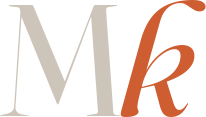
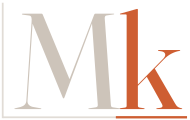
Mk 2026-11-20 (acff9fed3135)
- O logo novo em todo o Mk
- Logo do Mk em vetor: Mk em serifa reta sobre um plano cartesiano

diff --git a/shell/mare/Bar.qml b/shell/mare/Bar.qml
@@ -188,38 +188,21 @@ PanelWindow {
                     }
                 }
 
-                // Marca "Mk": o M em osso e o k em cobre, como o "x" de
-                // codexmark no perfil. Abre o launcher (ou um toque no Super).
+                // Marca "Mk": o M em osso, o k em cobre e os eixos do logo (a
+                // forma compacta de system/mk/art/make-logo.py, em vetor).
+                // Abre o launcher (ou um toque no Super).
                 Item {
                     id: brand
                     anchors.verticalCenter: parent.verticalCenter
                     implicitWidth: mark.implicitWidth + 14
                     implicitHeight: 24
 
-                    Row {
+                    Image {
                         id: mark
                         anchors.centerIn: parent
-                        anchors.verticalCenterOffset: -1
-                        spacing: -1
-
-                        Text {
-                            anchors.baseline: kay.baseline
-                            text: "M"
-                            color: Theme.text
-                            font.family: Theme.serif
-                            font.pixelSize: 19
-                            font.weight: Font.Light
-                        }
-
-                        Text {
-                            id: kay
-                            text: "k"
-                            color: Theme.copper
-                            font.family: Theme.serif
-                            font.pixelSize: 19
-                            font.weight: Font.Light
-                            font.italic: true
-                        }
+                        source: Qt.resolvedUrl("assets/mark.svg")
+                        sourceSize.height: 20
+                        smooth: true
                     }
 
                     HoverHandler { cursorShape: Qt.PointingHandCursor }

diff --git a/shell/mare/SettingsWindow.qml b/shell/mare/SettingsWindow.qml
@@ -313,16 +313,14 @@ PanelWindow {
                 Row {
                     spacing: 10
 
-                    Text {
+                    Image {
                         id: brand
-                        text: "M<font color=\"" + Theme.copper + "\"><i>k</i></font>"
-                        textFormat: Text.StyledText
-                        color: Theme.text
-                        font.family: Theme.serif
-                        font.pixelSize: 24
+                        source: Qt.resolvedUrl("assets/mark.svg")
+                        sourceSize.height: 26
                     }
                     Text {
-                        anchors.baseline: brand.baseline
+                        anchors.bottom: brand.bottom
+                        anchors.bottomMargin: 2
                         text: "ajustes"
                         color: Theme.textDim
                         font.family: Theme.serif

diff --git a/shell/mare/LockSurface.qml b/shell/mare/LockSurface.qml
@@ -392,8 +392,9 @@ Item {
 
             Image {
                 anchors.right: parent.right
-                source: Qt.resolvedUrl("assets/mark.png")
-                height: 26 * root.s
+                source: Qt.resolvedUrl("assets/mark.svg")
+                sourceSize.height: Math.round(30 * root.s)
+                height: Math.round(30 * root.s)
                 fillMode: Image.PreserveAspectFit
                 mipmap: true
             }

diff --git a/system/mk/art/make-logo.py b/system/mk/art/make-logo.py
@@ -1,0 +1,156 @@
+#!/usr/bin/env python3
+# O logo do Mk em vetor: "Mk" em Fraunces reta (M em osso, k em cobre) sobre
+# um plano cartesiano. Eixo vertical à esquerda e a linha de cota embaixo (em
+# cobre sob o k); guias quase invisíveis nas alturas e hastes; as diagonais de
+# construção do M e do k; e nós nas quinas que as definem.
+#
+# As letras viram contorno (path) a partir da própria fonte, e as guias saem
+# dos pontos reais desse contorno: muda a fonte ou o peso, o desenho acompanha.
+#
+# Duas formas: o logo inteiro (guias, diagonais e nós), para tamanhos grandes
+# (boot, cartaz), e a marca compacta (as letras e os eixos), para tamanhos
+# pequenos (ilha, login, bloqueio), onde as linhas finas sumiriam.
+#
+#   python3 system/mk/art/make-logo.py      gera logo/*.svg e *.png, a marca e
+#                                           as cópias que o boot, o login e o
+#                                           bloqueio usam
+import os
+import shutil
+import subprocess
+from fontTools.ttLib import TTFont
+from fontTools.varLib import instancer
+from fontTools.pens.svgPathPen import SVGPathPen
+from fontTools.pens.transformPen import TransformPen
+
+here = os.path.dirname(os.path.abspath(__file__))
+out = os.path.join(here, "logo")
+FONT = "/usr/share/fonts/TTF/Fraunces[SOFT,WONK,opsz,wght].ttf"
+BONE, COPPER, GROUND = "#cdc4ba", "#ce5e32", "#0b0b0b"
+WGHT, KERN = 380, -60
+
+font = instancer.instantiateVariableFont(TTFont(FONT), {"wght": WGHT, "opsz": 144, "SOFT": 0, "WONK": 0})
+glyphs = font.getGlyphSet()
+cmap = font.getBestCmap()
+
+
+def glyph_path(ch, ox):
+    """Contorno da letra em coordenadas do SVG (y para baixo), origem em ox."""
+    name = cmap[ord(ch)]
+    pen = SVGPathPen(glyphs)
+    glyphs[name].draw(TransformPen(pen, (1, 0, 0, -1, ox, 0)))
+    return pen.getCommands(), glyphs[name].width
+
+
+# Posições (unidades da fonte; no SVG, y = -altura).
+M_ADV = glyphs[cmap[ord("M")]].width
+KX = M_ADV + KERN                     # origem do k
+K_RIGHT = KX + 954                    # fim da perna do k
+HEIGHTS = [0, 156, 867, 1400, 1469]   # base, vértice do M, altura-x, maiúsculas, ascendente do k
+VERTS = [215, 722, 1320, KX + 220, KX + 914]  # hastes do M, vértice, haste do k, fim do braço
+DIAGS = [((408, 1390), (722, 156)), ((1180, 1388), (804, 415)),          # as diagonais do M
+         ((KX + 283, 321), (KX + 914, 867)), ((KX + 431, 479), (KX + 853, 74))]  # braço e perna do k
+# Quinas: o alto das duas diagonais do M e o vértice; no k, o alto da haste,
+# onde o braço sai da haste, onde a perna encontra o braço, a ponta do braço e o pé da perna.
+NODES = [(408, 1390, BONE), (722, 156, BONE), (1180, 1388, BONE),
+         (KX + 220, 1469, COPPER), (KX + 303, 360, COPPER), (KX + 548, 600, COPPER),
+         (KX + 914, 867, COPPER), (KX + 853, 74, COPPER)]
+
+AX, AY = -230, 150                    # eixo vertical (x) e linha de cota (y, abaixo da base)
+TOP, RIGHT = -1640, K_RIGHT + 200     # fim dos eixos
+VB = (-520, -1900, RIGHT + 300 + 520, 1900 + AY + 300)
+
+
+def svg(background):
+    m_path, _ = glyph_path("M", 0)
+    k_path, _ = glyph_path("k", KX)
+    p = []
+    p.append(f'<svg xmlns="http://www.w3.org/2000/svg" viewBox="{VB[0]} {VB[1]} {VB[2]} {VB[3]}">')
+    p.append("<title>Mk</title>")
+    if background:
+        p.append(f'<rect x="{VB[0]}" y="{VB[1]}" width="{VB[2]}" height="{VB[3]}" fill="{GROUND}"/>')
+    # Guias e diagonais ficam dentro do plano (entre os eixos).
+    p.append(f'<defs><clipPath id="plano"><rect x="{AX}" y="{TOP}" width="{RIGHT - AX}" height="{AY - TOP}"/></clipPath></defs>')
+    p.append('<g clip-path="url(#plano)">')
+    # Guias: alturas e hastes, quase invisíveis.
+    p.append(f'<g stroke="{BONE}" stroke-width="4" opacity="0.13">')
+    for h in HEIGHTS:
+        p.append(f'<line x1="{AX}" y1="{-h}" x2="{RIGHT}" y2="{-h}"/>')
+    for x in VERTS:
+        p.append(f'<line x1="{x}" y1="{AY}" x2="{x}" y2="{TOP}"/>')
+    p.append("</g>")
+    # Diagonais de construção, um pouco além das letras.
+    p.append(f'<g stroke-width="4" opacity="0.2">')
+    for i, ((x1, y1), (x2, y2)) in enumerate(DIAGS):
+        dx, dy = x2 - x1, y2 - y1
+        e = 0.35
+        color = BONE if i < 2 else COPPER
+        p.append(f'<line x1="{x1 - dx * e:.1f}" y1="{-(y1 - dy * e):.1f}" x2="{x2 + dx * e:.1f}" y2="{-(y2 + dy * e):.1f}" stroke="{color}"/>')
+    p.append("</g>")
+    p.append("</g>")
+    # Eixos: vertical à esquerda e a cota embaixo; cobre sob o k.
+    p.append(f'<g stroke="{BONE}" stroke-width="10" stroke-linecap="square" opacity="0.62">')
+    p.append(f'<line x1="{AX}" y1="{AY}" x2="{RIGHT}" y2="{AY}"/>')
+    p.append(f'<line x1="{AX}" y1="{AY}" x2="{AX}" y2="{TOP}"/>')
+    p.append(f'<line x1="{AX - 44}" y1="{TOP}" x2="{AX + 44}" y2="{TOP}"/>')
+    p.append(f'<line x1="{RIGHT}" y1="{AY - 44}" x2="{RIGHT}" y2="{AY + 44}"/>')
+    p.append("</g>")
+    p.append(f'<line x1="{KX - 20}" y1="{AY}" x2="{RIGHT}" y2="{AY}" stroke="{COPPER}" stroke-width="14"/>')
+    # As letras.
+    p.append(f'<path d="{m_path}" fill="{BONE}"/>')
+    p.append(f'<path d="{k_path}" fill="{COPPER}"/>')
+    # Nós nas quinas: um furo escuro com aro, para aparecer até sobre a letra.
+    for x, y, color in NODES:
+        p.append(f'<circle cx="{x}" cy="{-y}" r="22" fill="{GROUND}" stroke="{color}" stroke-width="7"/>')
+        p.append(f'<circle cx="{x}" cy="{-y}" r="5" fill="{color}"/>')
+    p.append("</svg>")
+    return "\n".join(p) + "\n"
+
+
+def mark_svg():
+    """A marca compacta: as letras e os eixos (o vertical à esquerda e a cota
+    embaixo, cobre sob o k), com traço mais grosso para tamanhos pequenos."""
+    m_path, _ = glyph_path("M", 0)
+    k_path, _ = glyph_path("k", KX)
+    ax, ay, top, right = -170, 120, -1560, K_RIGHT + 70
+    vb = (ax - 40, top - 40, right - ax + 80, ay - top + 80)
+    return "\n".join([
+        f'<svg xmlns="http://www.w3.org/2000/svg" viewBox="{vb[0]} {vb[1]} {vb[2]} {vb[3]}">',
+        "<title>Mk</title>",
+        f'<g stroke="{BONE}" stroke-width="26" opacity="0.6">',
+        f'<line x1="{ax}" y1="{ay}" x2="{right}" y2="{ay}"/>',
+        f'<line x1="{ax}" y1="{ay + 13}" x2="{ax}" y2="{top}"/>',
+        "</g>",
+        f'<line x1="{KX - 20}" y1="{ay}" x2="{right}" y2="{ay}" stroke="{COPPER}" stroke-width="34"/>',
+        f'<path d="{m_path}" fill="{BONE}"/>',
+        f'<path d="{k_path}" fill="{COPPER}"/>',
+        "</svg>",
+    ]) + "\n"
+
+
+def render(svg_path, png_path, width=None, height=None):
+    size = ["-w", str(width)] if width else ["-h", str(height)]
+    subprocess.run(["rsvg-convert", *size, "-o", png_path, svg_path], check=True)
+
+
+if __name__ == "__main__":
+    os.makedirs(out, exist_ok=True)
+    for name, bg in (("mk-logo", True), ("mk-logo-transparente", False)):
+        path = os.path.join(out, name + ".svg")
+        with open(path, "w") as f:
+            f.write(svg(bg))
+        for width in (8000, 2400):
+            png = os.path.join(out, f"{name}-{width}.png")
+            subprocess.run(["rsvg-convert", "-w", str(width), "-o", png, path], check=True)
+    mark = os.path.join(out, "mk-mark.svg")
+    with open(mark, "w") as f:
+        f.write(mark_svg())
+    render(mark, os.path.join(out, "mk-mark-2000.png"), width=2000)
+
+    # As cópias que o resto do Mk usa.
+    root = os.path.normpath(os.path.join(here, "..", "..", ".."))
+    render(mark, os.path.join(here, "mark.png"), height=160)
+    render(mark, os.path.join(root, "shell/mare/assets/mark.png"), height=120)
+    shutil.copy(mark, os.path.join(root, "shell/mare/assets/mark.svg"))
+    render(mark, os.path.join(root, "system/mk/sddm/mk/mark.png"), height=120)
+    render(os.path.join(out, "mk-logo-transparente.svg"), os.path.join(root, "system/mk/plymouth/mk/logo.png"), width=1200)
+    print("ok:", ", ".join(sorted(os.listdir(out))))

diff --git a/system/mk/art/make-art.py b/system/mk/art/make-art.py
@@ -1,7 +1,7 @@
 #!/usr/bin/env python3
 # Gera as imagens do Mk a partir das fontes (Fraunces) e da linguagem Folha:
-#   mark.png        o "Mk": M em osso, k itálico em cobre (boot, login)
 #   emblem.png      o desenho do fastfetch: arco, colunas, sol de cobre e o Mk
+#                   (a marca vem de mark.png, feita por make-logo.py: rode ele antes)
 #   grain.png       o grão que faz o preto nunca ser preto
 # Rode de novo só quando mudar o desenho: python3 system/mk/art/make-art.py
 import math, os, random
@@ -37,7 +37,16 @@ def font(path, size, weight=400, opsz=None):
 
 
 def mark(size):
-    """O Mk em tamanho `size` (altura da letra), fundo transparente."""
+    """A marca do Mk (mark.png, de make-logo.py) com `size` px de altura."""
+    im = Image.open(os.path.join(here, "mark.png")).convert("RGBA")
+    big = os.path.join(here, "logo", "mk-mark-2000.png")
+    if os.path.exists(big):
+        im = Image.open(big).convert("RGBA")
+    return im.resize((round(im.width * size / im.height), size), Image.LANCZOS)
+
+
+def old_mark(size):
+    """O Mk antigo (k itálico), desenhado pela fonte. Não usado; fica de referência."""
     fm, fk = font(FRAUNCES, size, 380), font(FRAUNCES_I, size, 420)
     w = int(size * 1.9)
     h = int(size * 1.35)
@@ -134,14 +143,12 @@ def emblem(S=1024):
 
     im = im.resize((S, S), Image.LANCZOS)
     # o Mk dentro do arco
-    m = mark(int(S * 0.15))
+    m = mark(int(S * 0.17))
     im.alpha_composite(m, (int(S * 0.5 - m.width / 2), int(S * 0.68 - m.height - S * 0.035)))
     return im
 
 
 if __name__ == "__main__":
-    mark(160).save(os.path.join(here, "mark.png"))
-    mark(48).save(os.path.join(here, "mark-small.png"))
     emblem().save(os.path.join(here, "emblem.png"))
     grain().save(os.path.join(here, "grain.png"))
     print("ok:", ", ".join(sorted(f for f in os.listdir(here) if f.endswith(".png"))))
